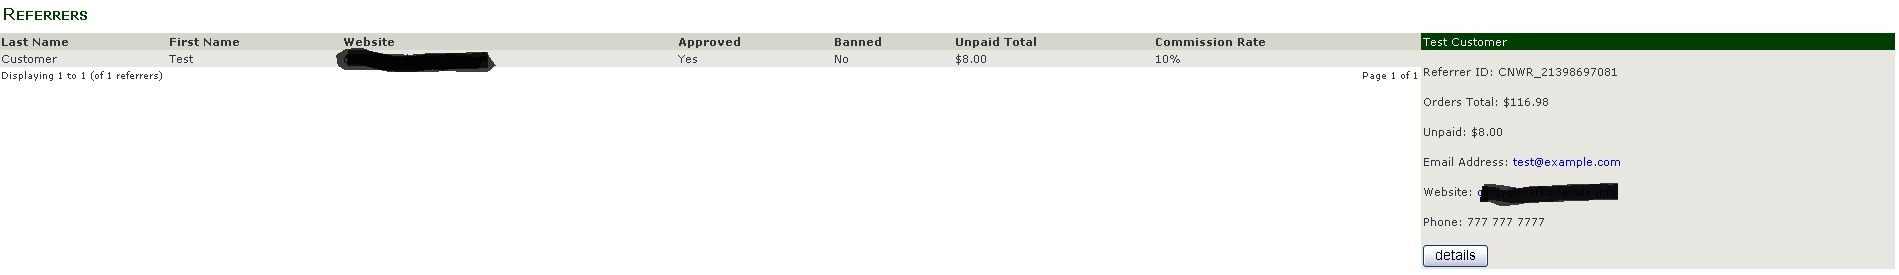
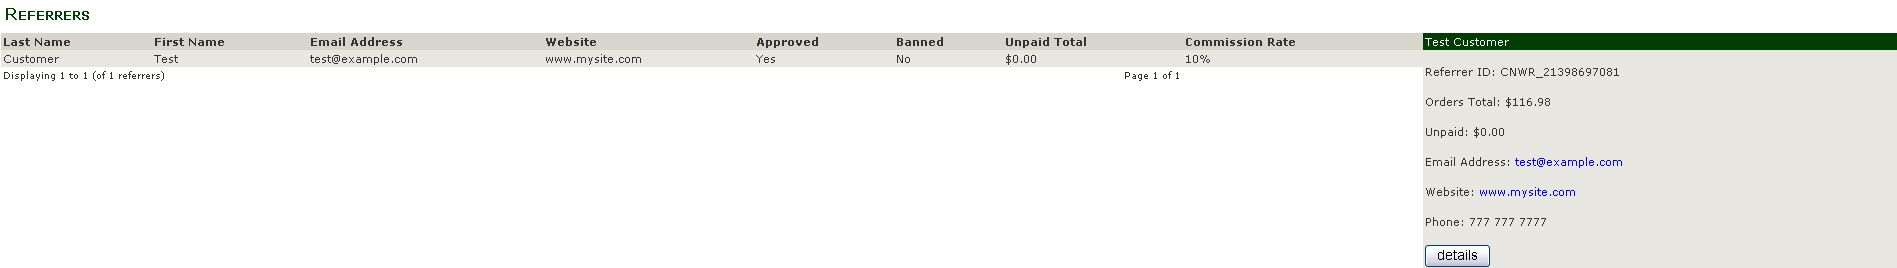
Change #5:  Include email address
Include the customer's email address in the main table when the admin
Customers->Referrers page is displayed.

diff --git a/readme.html b/readme.html
@@ -45,7 +45,7 @@ ul li ul { padding-left: 0; }
 <ol>
   <li>In the United States (and probably other countries), there are tax implications associated with creating an affiliate program for your website. I am neither a lawyer nor an accountant, but you should perform your own due diligence by performing a web-search for <strong>affiliate marketing 1099</strong>.</li>
   <li>There have been issues reported using this plugin with some (or all) of the SEO plugins.  If you are using one of those plugins, <strong>please be prepared</strong> for the affiliate-related links generated by <em>this</em> plugin to generate page-not-found (i.e. 404) errors. Some of these issues might be mitigated starting with the 2.1.1 version of this plugin.</li>
-  <li>This plugin includes v1.1.0 of the proposed "Common Orders-Status Update Interface" documented in this Zen Cart posting: <a href="http://www.zen-cart.com/showthread.php?209162-Add-admin_id-field-to-orders_status_history-table&p=1212431#post1212431" target="_blank">http://www.zen-cart.com/showthread.php?209162-Add-admin_id-field-to-orders_status_history-table&p=1212431#post1212431</a>.  Please make sure that you've subscribed to the current support forum for <em>Snap Affiliates</em>; I'll post there if there's an interface update required.</a>
+  <li>This plugin includes v1.1.0 of <em>Orders Status History &mdash; updated_by</em>, available here: <a href="http://www.zen-cart.com/downloads.php?do=file&id=1839" target="_blank">http://www.zen-cart.com/downloads.php?do=file&id=1839</a>.  Please make sure that you've subscribed to the current support forum for <em>Snap Affiliates</em>; I'll post there if there's an interface update required.</a>
 </ol>
 
 <h2>What it does</h2>
@@ -326,6 +326,7 @@ ul li ul { padding-left: 0; }
   </ul></li>
   <li>v2.7.1, 2014-07-13:<ul>
     <li>Include previously-missed change to the account-page template (downwardly-compatible) for Zen Cart v1.5.2 and v1.5.3.</li>
+    <li>Add email address to admin-level <em>Customers-&gt;Referrers</em> display.</li>
   </ul></li>
 </ul>
 
@@ -505,7 +506,9 @@ ul li ul { padding-left: 0; }
   <tr>
     <td class="c1">v2.7.1</td>
     <td><ol>
-      <li>/includes/templates/YOUR_TEMPLATE/templates/tpl_account_default.php</lii>
+      <li>/includes/templates/YOUR_TEMPLATE/templates/tpl_account_default.php</li>
+      <li>/YOUR_ADMIN/referrers.php</li>
+      <li>/YOUR_ADMIN/includes/languages/english/referrers.php</li>
     </ol></td>
     <td class="c3"><p>None</p></td>
   </tr> 

diff --git a/YOUR_ADMIN/referrers.php b/YOUR_ADMIN/referrers.php
@@ -278,8 +278,7 @@ switch($mode) {
       foreach ($commissions as $commission_id => $commission) {
         $commission_manual = ($commission['calculated'] == $commission['paid']) ? 0 : 1;
         $db->Execute ("UPDATE " . TABLE_COMMISSION . " SET commission_paid = '$now', commission_paid_amount = '" . $commission['paid'] . "', commission_manual = $commission_manual WHERE commission_id = $commission_id");
-        
-        foreach ($referrers[$selected]['orders'] as &$current_order) {
+         foreach ($referrers[$selected]['orders'] as $current_order) {
           if ($current_order['commission_id'] == $commission_id) {
             $total_paid += $commission['paid'];
             
@@ -288,7 +287,7 @@ switch($mode) {
             // The order's current status is unchanged.
             //
             $status_comment = sprintf (TEXT_ORDERS_STATUS_PAID, $currencies->format ($commission['paid']), $referrers[$selected]['customers_firstname'] . ' ' . $referrers[$selected]['customers_lastname']);
-            zen_update_orders_history ($current_order['commission_orders_id'], $status_comment);
+            zen_update_orders_history ($current_order['orders_id'], $status_comment);
             break;
             
           }
@@ -314,11 +313,11 @@ switch($mode) {
     break;
     
   case TEXT_UPDATE:
-    if (!ctype_digit($_POST['commission']) || $_POST['commission'] < 0 || $_POST['commission'] > 100) {
+    if (!is_numeric($_POST['commission']) || ((int)$_POST['commission'] < 0) || ((int)$_POST['commission'] > 100)) {
       $messageStack->add(ERROR_INVALID_PERCENTAGE, 'error');
       
     } else {
-      $commission = floatval ($_POST['commission']) / 100;
+      $commission = floatval((int)$_POST['commission']) / 100;
       $query = "UPDATE ". TABLE_REFERRERS ." SET referrer_commission = " . $commission . " WHERE referrer_customers_id = " . (int)$referrers[$selected]['customers_id'];
       $db->Execute($query);
 
@@ -388,6 +387,7 @@ if ($mode == '' || $mode == 'summary') {
        <tr class="dataTableHeadingRow">
         <td class="dataTableHeadingContent"><?php echo HEADING_LAST_NAME; ?></td>
         <td class="dataTableHeadingContent"><?php echo HEADING_FIRST_NAME; ?></td>
+        <td class="dataTableHeadingContent"><?php echo HEADING_EMAIL_ADDRESS; ?></td>  <?php /*v2.7.1a*/ ?>
         <td class="dataTableHeadingContent"><?php echo HEADING_WEBSITE; ?></td>
         <td class="dataTableHeadingContent"><?php echo HEADING_APPROVED; ?></td>
         <td class="dataTableHeadingContent"><?php echo HEADING_BANNED; ?></td>
@@ -401,6 +401,7 @@ foreach ($referrers as $referrer) {
        <tr class="dataTableRow<?php echo ($current_selection) ? 'Selected' : ''; ?>" onmouseover="rowOverEffect(this);" onmouseout="rowOutEffect(this);" onclick="document.location.href='<?php echo zen_href_link(FILENAME_REFERRERS, zen_get_all_get_params(array('action')) . 'referrer=' . $referrer['customers_id'] . '&amp;mode=details', 'NONSSL'); ?>'">
         <td class="dataTableContent"><?php echo $referrer['customers_lastname']; ?></td>
         <td class="dataTableContent"><?php echo $referrer['customers_firstname']; ?></td>
+        <td class="dataTableContent"><?php echo $referrer['customers_email_address']; ?></td>  <?php /*v2.7.1a*/ ?>
         <td class="dataTableContent"><?php echo $referrer['referrer_homepage']; ?></td>
         <td class="dataTableContent"><?php echo ($referrer['referrer_approved'] == 1) ? TEXT_YES : '<span class="alert">' . TEXT_NO . '</span>'; ?></td>
         <td class="dataTableContent"><?php echo ($referrer['referrer_banned'] == 1) ? '<span class="alert">' . TEXT_YES . '</span>' : TEXT_NO; ?></td>

diff --git a/YOUR_ADMIN/includes/languages/english/referrers.php b/YOUR_ADMIN/includes/languages/english/referrers.php
@@ -18,6 +18,7 @@ define('ERROR_INVALID_PERCENTAGE', 'The "Current Commission Rate" value must be 
 // Language file for the Customers->Referrers Tool
 define('HEADING_FIRST_NAME', 'First Name');
 define('HEADING_LAST_NAME', 'Last Name');
+define('HEADING_EMAIL_ADDRESS', 'Email Address');  //-v2.7.1a
 define('HEADING_WEBSITE', 'Website');
 define('HEADING_APPROVED', 'Approved');
 define('HEADING_BANNED', 'Banned');
